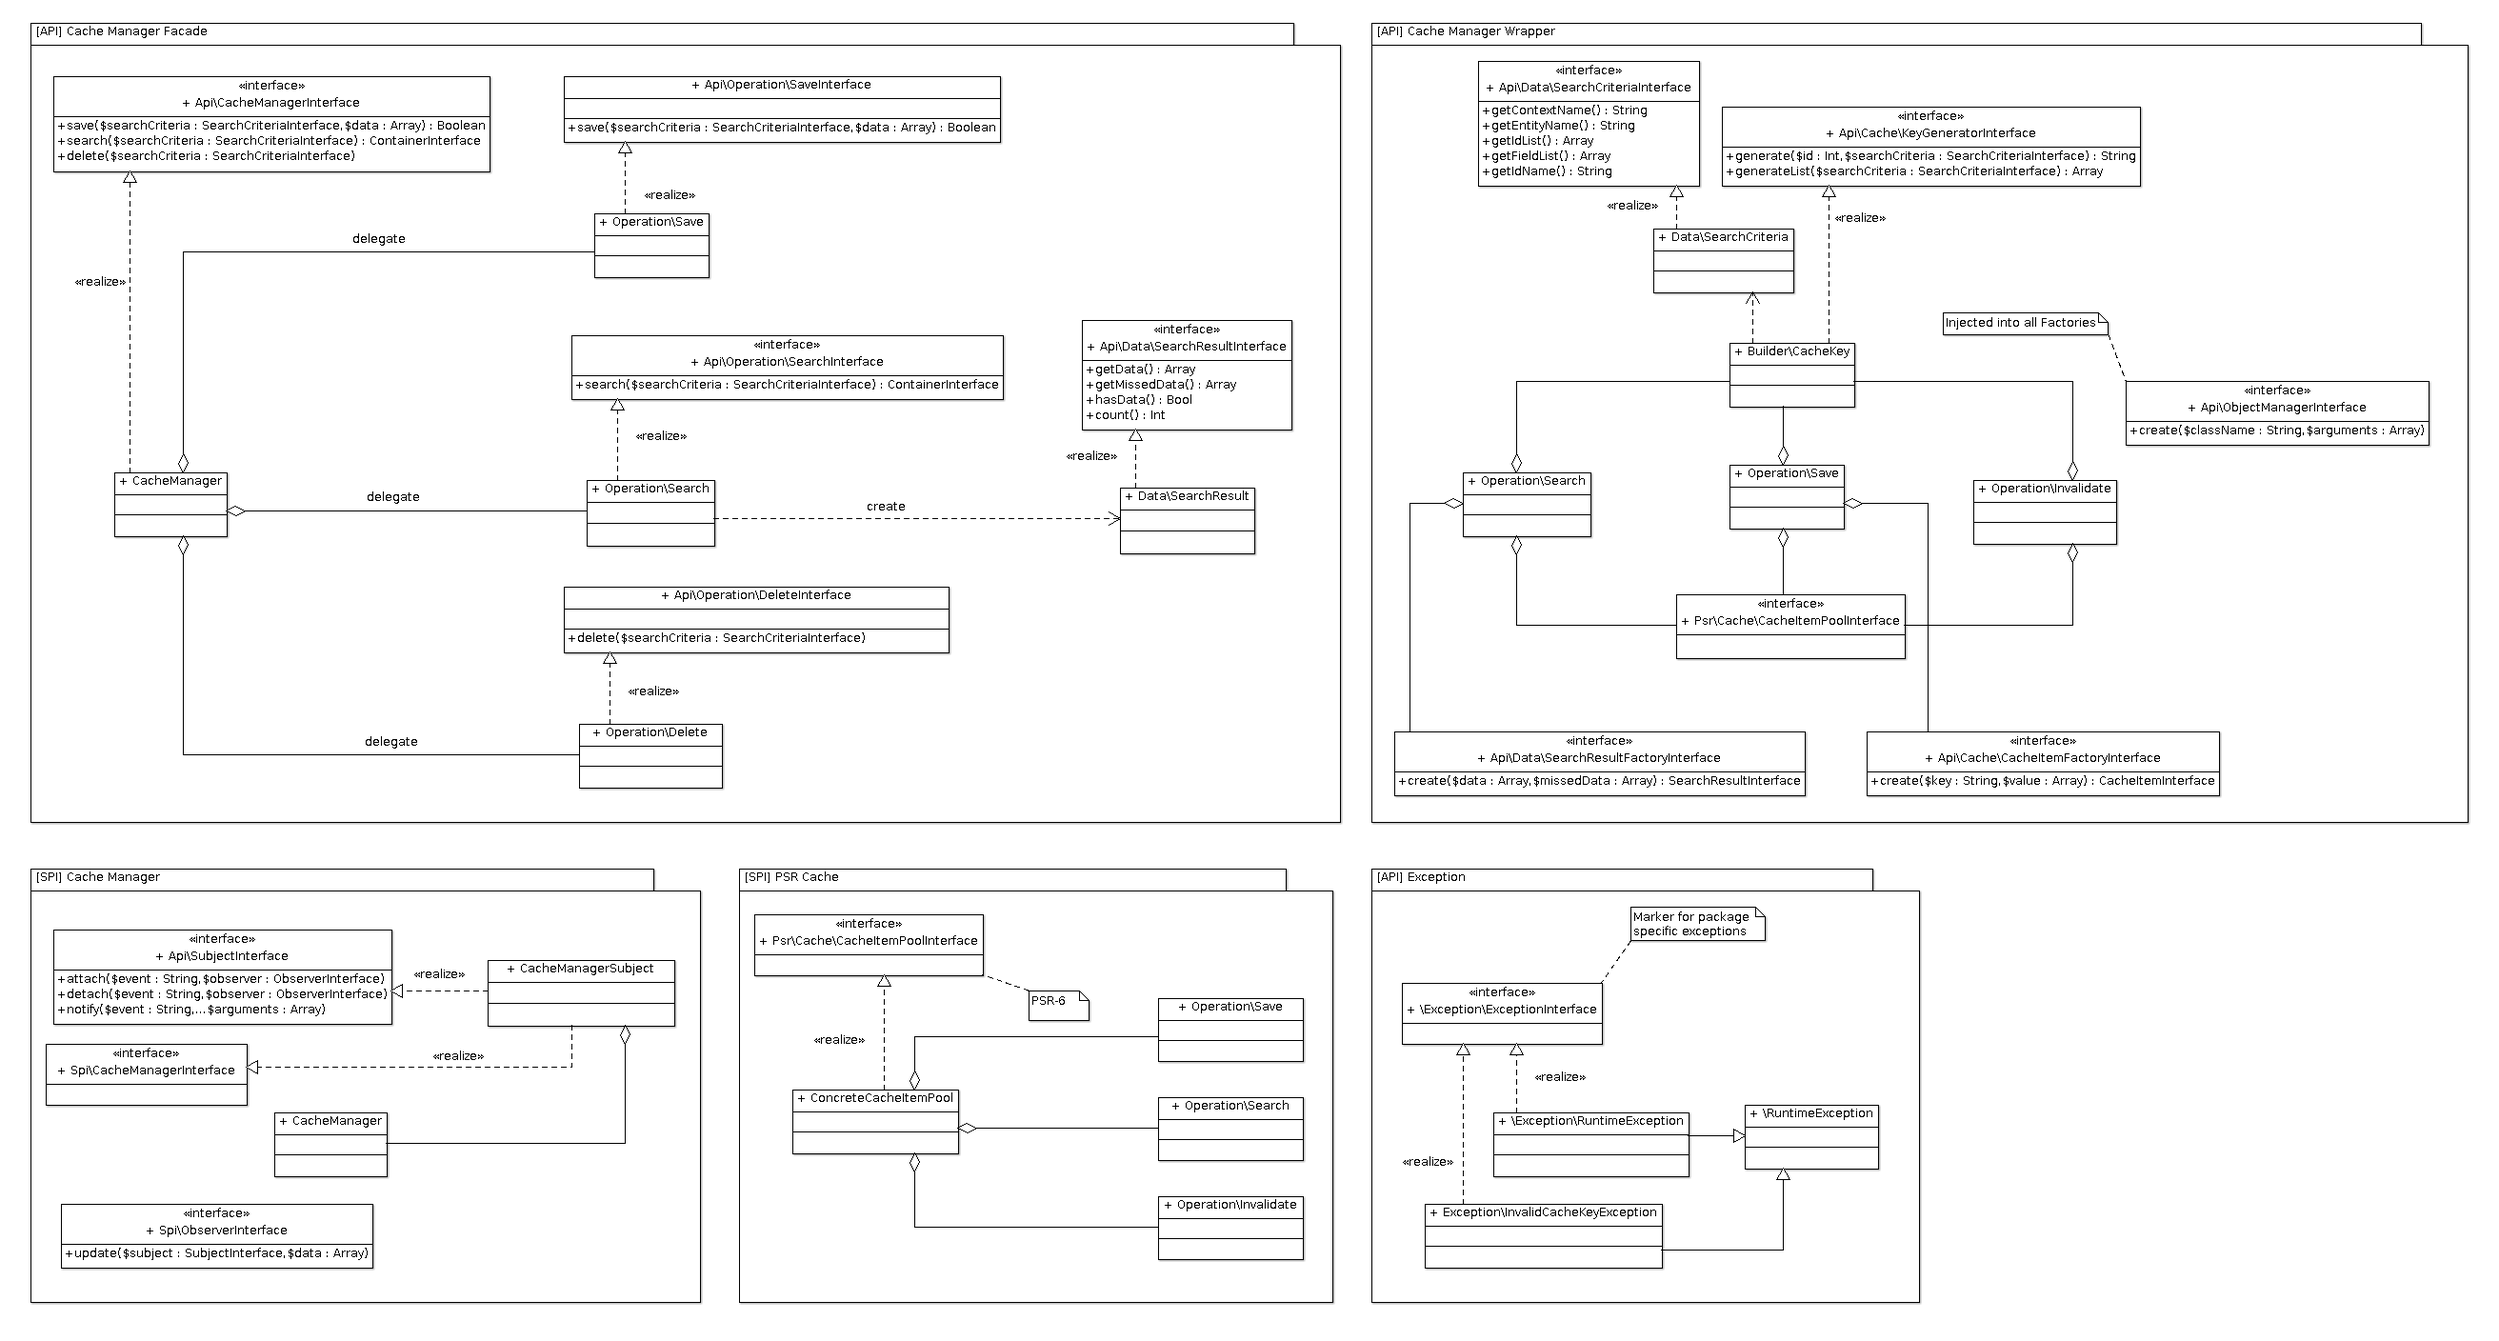
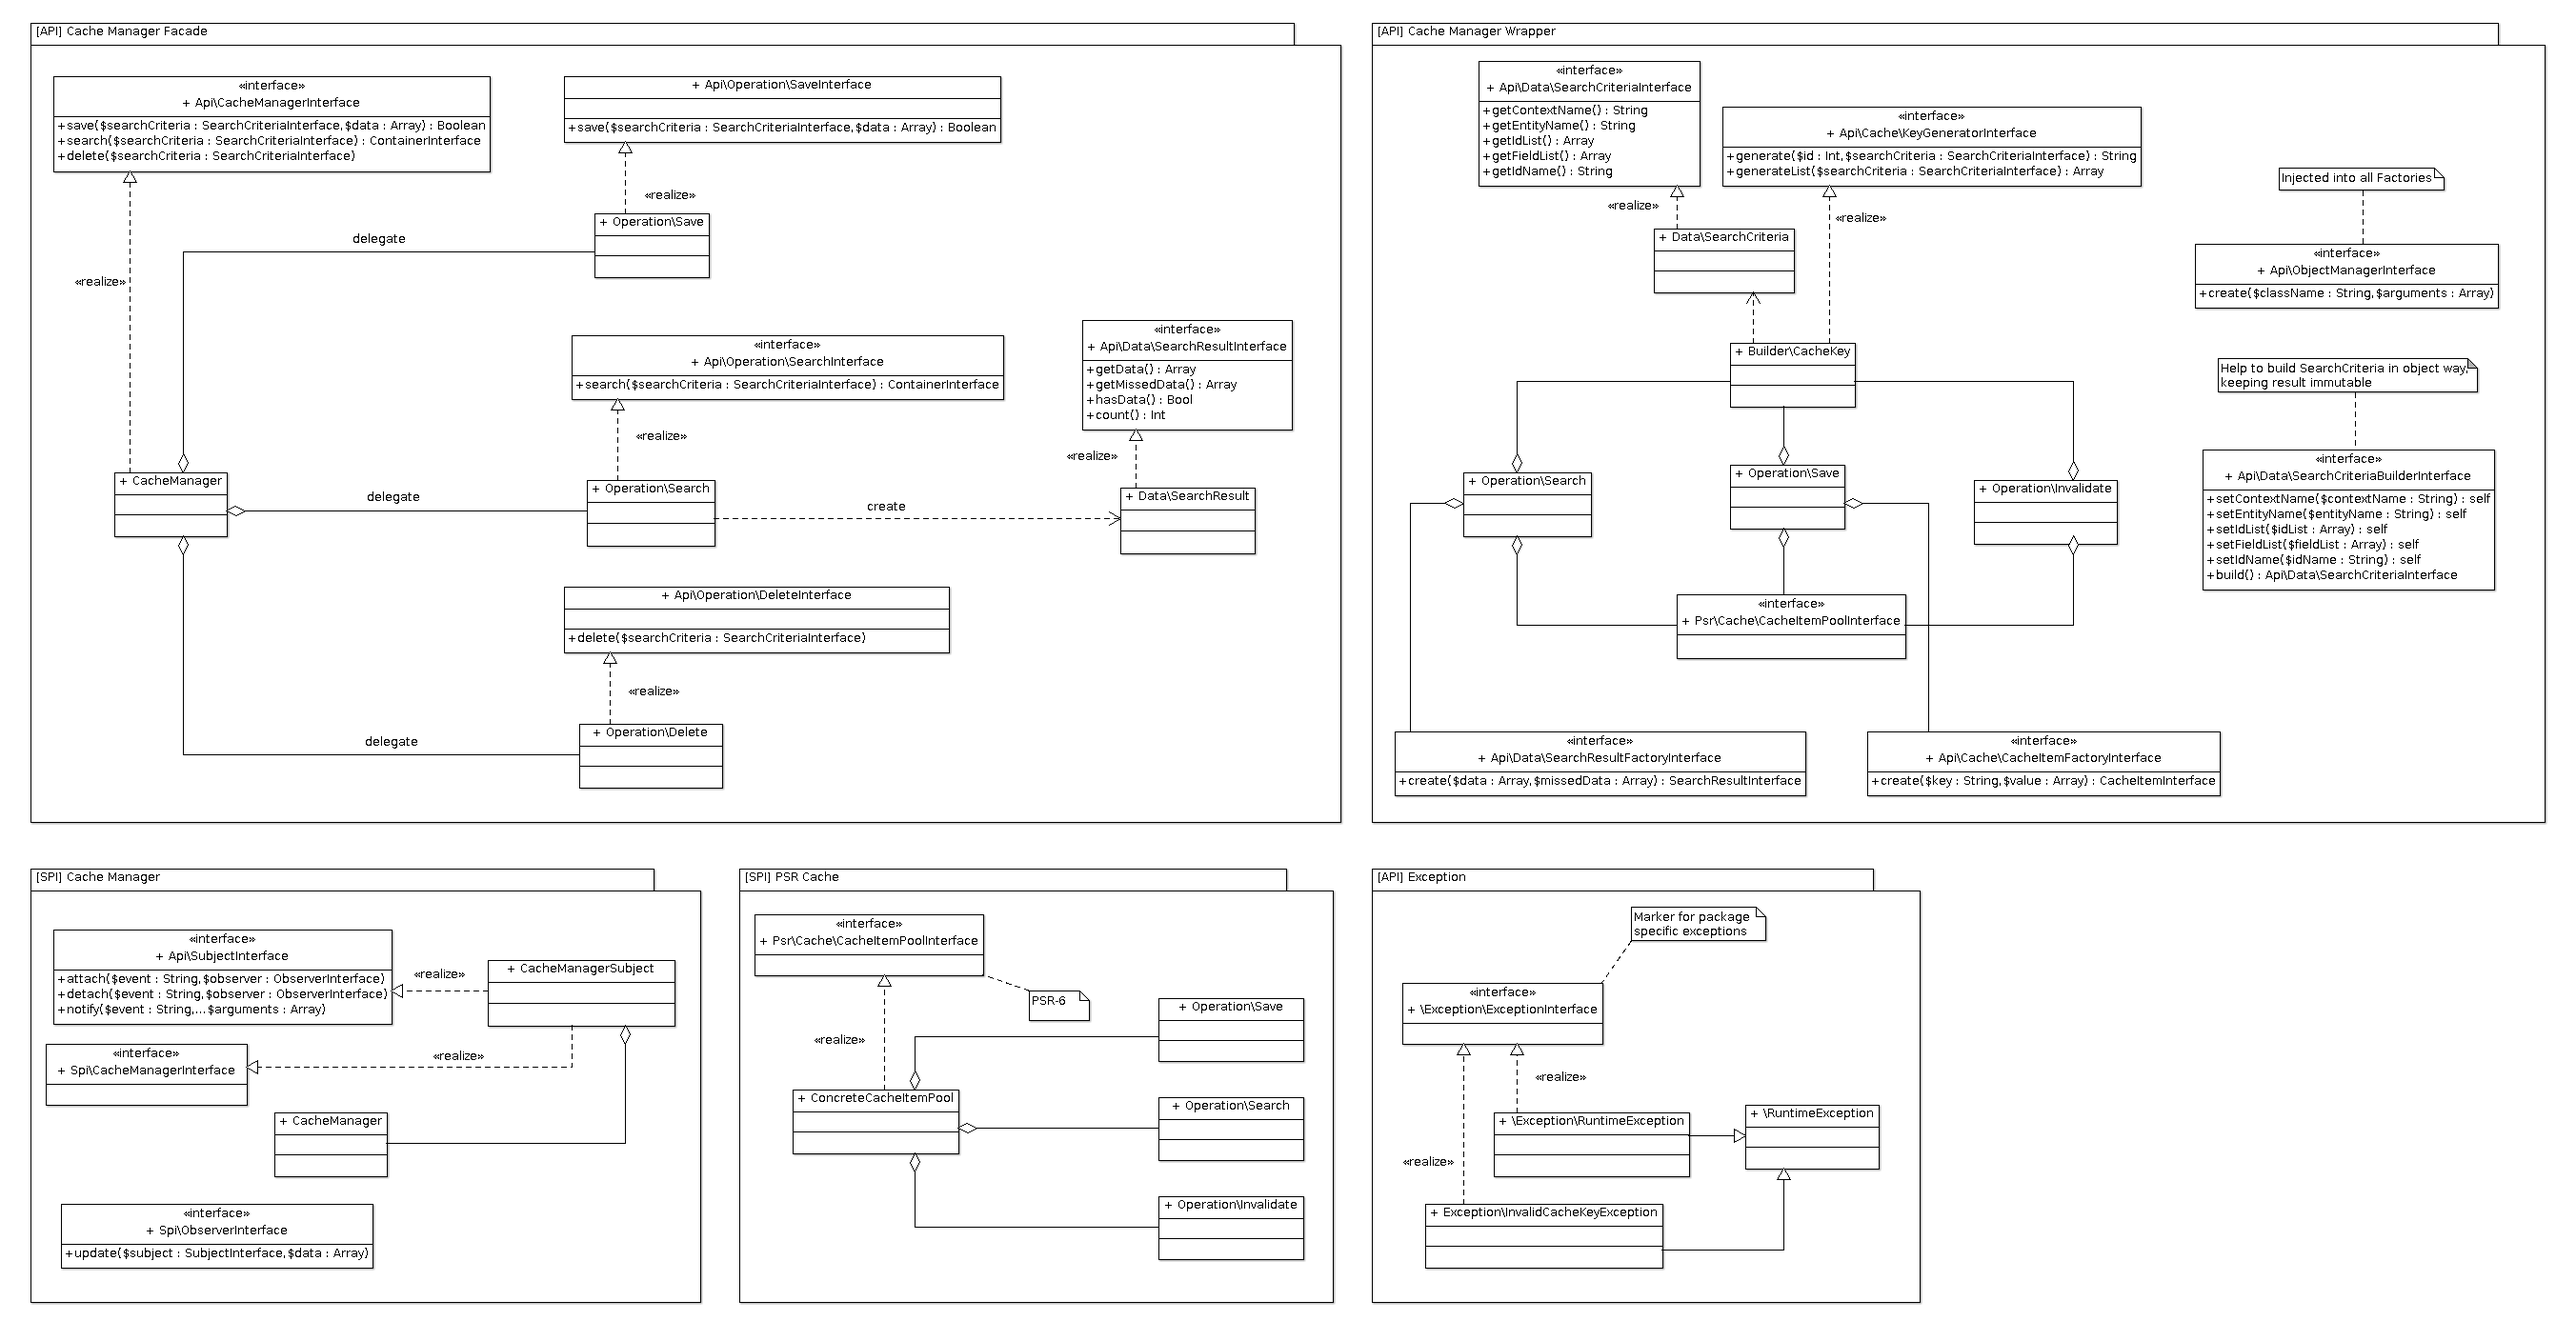
Created Search Criteria Builder

diff --git a/src/Data/SearchCriteriaBuilder.php b/src/Data/SearchCriteriaBuilder.php
@@ -1,0 +1,120 @@
+<?php
+declare(strict_types = 1);
+
+namespace Picamator\CacheManager\Data;
+
+use Picamator\CacheManager\Api\Data\SearchCriteriaBuilderInterface;
+use Picamator\CacheManager\Api\Data\SearchCriteriaInterface;
+use Picamator\CacheManager\Api\ObjectManagerInterface;
+
+/**
+ * Building search criteria object
+ */
+class SearchCriteriaBuilder implements SearchCriteriaBuilderInterface
+{
+    /**
+     * @var ObjectManagerInterface
+     */
+    private $objectManager;
+
+    /**
+     * @var string
+     */
+    private $className;
+
+    /**
+     * @var array
+     */
+    private $data = [
+        'entityName'    => null,
+        'idList'        => [],
+        'fieldList'     => [],
+        'idName'        => null,
+        'contextName'   => null,
+    ];
+
+    /**
+     * @param ObjectManagerInterface    $objectManager
+     * @param string                    $className
+     */
+    public function __construct(
+        ObjectManagerInterface $objectManager,
+        string $className = 'Picamator\CacheManager\Data\SearchResult'
+    ) {
+       $this->objectManager = $objectManager;
+        $this->className = $className;
+    }
+
+    /**
+     * {@inheritdoc}
+     */
+    public function setContextName(string $contextName)
+    {
+        $this->data['contextName'] = $contextName;
+
+        return $this;
+    }
+
+    /**
+     * {@inheritdoc}
+     */
+    public function setEntityName(string $entityName)
+    {
+        $this->data['entityName'] = $entityName;
+
+        return $this;
+    }
+
+    /**
+     * {@inheritdoc}
+     */
+    public function setIdList(array $idList)
+    {
+        $this->data['idList'] = $idList;
+
+        return $this;
+    }
+
+    /**
+     * {@inheritdoc}
+     */
+    public function setFieldList(array $fieldList)
+    {
+        $this->data['fieldList'] = $fieldList;
+
+        return $this;
+    }
+
+    /**
+     * {@inheritdoc}
+     */
+    public function setIdName(string $idName)
+    {
+        $this->data['idName'] = $idName;
+
+        return $this;
+    }
+
+    /**
+     * {@inheritdoc}
+     */
+    public function build() : SearchCriteriaInterface
+    {
+        /** @var SearchCriteriaInterface $result */
+        $result = $this->objectManager->create($this->className, $this->data);
+        $this->cleanData();
+
+        return $result;
+    }
+
+    /**
+     * Clean data
+     */
+    private function cleanData()
+    {
+        foreach ($this->data as &$item) {
+            $item = is_array($item) ? [] : null;
+        }
+        unset($item); // prevent unexpected behaviour
+    }
+}

diff --git a/src/Api/Data/SearchCriteriaBuilderInterface.php b/src/Api/Data/SearchCriteriaBuilderInterface.php
@@ -1,0 +1,65 @@
+<?php
+namespace Picamator\CacheManager\Api\Data;
+
+use Picamator\CacheManager\Api\Data\SearchCriteriaInterface;
+
+/**
+ * Building search criteria object
+ */
+interface SearchCriteriaBuilderInterface
+{
+    /**
+     * Sets context name
+     *
+     * @param string $contextName
+     *
+     * @return self
+     */
+    public function setContextName(string $contextName);
+
+    /**
+     * Sets entity name
+     *
+     * @param string $entityName
+     *
+     * @return self
+     */
+    public function setEntityName(string $entityName);
+
+    /**
+     * Sets id's list
+     *
+     * @param array $idList
+     *
+     * @return self
+     */
+    public function setIdList(array $idList);
+
+    /**
+     * Sets field's list
+     *
+     * @param array $fieldList
+     *
+     * @return self
+     */
+    public function setFieldList(array $fieldList);
+
+    /**
+     * Sets identifier name
+     *
+     * @param string $idName
+     *
+     * @return self
+     */
+    public function setIdName(string $idName);
+
+    /**
+     * Build search criteria
+     *
+     * It SHOULD clear all builder's data after creating SearchCriteria.
+     * It's essential for preparing builder to create new SearchCriteria.
+     *
+     * @return \Picamator\CacheManager\Api\Data\SearchCriteriaInterface
+     */
+    public function build() : SearchCriteriaInterface;
+}

diff --git a/src/Api/ObjectManagerInterface.php b/src/Api/ObjectManagerInterface.php
@@ -5,15 +5,16 @@ use Picamator\CacheManager\Exception\RuntimeException;
 
 /**
  * Creates objects, the main usage inside factories
- * all objects are unshared, for shared objects please use DI service libraries
+ *
+ * All objects are unshared, for shared objects please use DI service libraries
  */
 interface ObjectManagerInterface
 {
     /**
      * Create objects
      *
-     * @param string $className
-     * @param array $arguments
+     * @param string    $className
+     * @param array     $arguments
      *
      * @return mixed
      *

diff --git a/src/ObjectManager.php b/src/ObjectManager.php
@@ -8,7 +8,8 @@ use Picamator\CacheManager\Exception\RuntimeException;
 
 /**
  * Creates objects, the main usage inside factories
- * all objects are unshared, for shared objects please use DI service libraries
+ *
+ * All objects are unshared, for shared objects please use DI service libraries
  */
 class ObjectManager implements ObjectManagerInterface
 {

diff --git a/src/CacheManager.php b/src/CacheManager.php
@@ -13,6 +13,7 @@ use Picamator\CacheManager\Api\Operation\DeleteInterface;
 
 /**
  * Facade over operations: _save_, _search_, and _invalidate_
+ *
  * It's better to use Proxy over operations via DI for performance boost
  */
 class CacheManager implements CacheManagerInterface

diff --git a/src/Api/CacheManagerInterface.php b/src/Api/CacheManagerInterface.php
@@ -7,6 +7,7 @@ use Picamator\CacheManager\Exception\InvalidCacheKeyException;
 
 /**
  * Facade over operations: _save_, _search_, and _invalidate_
+ *
  * It's better to use Proxy over operations via DI for performance boost
  */
 interface CacheManagerInterface 

diff --git a/src/Api/Data/SearchCriteriaInterface.php b/src/Api/Data/SearchCriteriaInterface.php
@@ -7,7 +7,7 @@ namespace Picamator\CacheManager\Api\Data;
 interface SearchCriteriaInterface 
 {
 	/**
-	 * Retrive context name
+	 * Retrieve context name
 	 * 
 	 * @return string
 	 */

diff --git a/src/Cache/CacheItemFactory.php b/src/Cache/CacheItemFactory.php
@@ -1,4 +1,6 @@
 <?php
+declare(strict_types = 1);
+
 namespace Picamator\CacheManager\Cache;
 
 use Picamator\CacheManager\Api\Cache\CacheItemFactoryInterface;

diff --git a/src/Cache/KeyGenerator.php b/src/Cache/KeyGenerator.php
@@ -1,4 +1,6 @@
 <?php
+declare(strict_types = 1);
+
 namespace Picamator\CacheManager\Cache;
 
 use Picamator\CacheManager\Api\Cache\KeyGeneratorInterface;

diff --git a/README.md b/README.md
@@ -115,7 +115,7 @@ use \Picamator\CacheManager\Cache\KeyGenerator;
 use \Picamator\CacheManager\CacheManager;
 use \Picamator\CacheManager\CacheManagerSubject;
 
-use \Picamator\CacheManager\Data\SearchCriteria;
+use \Picamator\CacheManager\Data\SearchCriteriaBuilder;
 
 /** Classes for implementation */
 // Required: use interface \Psr\Cache\CacheItemPoolInterface over your cache library to fit PSR-6
@@ -131,7 +131,7 @@ $cacheItemFactory       = new CacheItemFactory($objectManager);
 $searchResultFactory    = new SearchResultFactory($objectManager);
 
 // Building keys for saving data to cache
-$cacheKeyGenerator = new KeyGenerator();
+$cacheKeyGenerator      = new KeyGenerator();
 
 // In real live please use Proxies or Lazy Loading
 $operationSave          = new Save($cacheKeyGenerator, $cacheItemPoolMock, $cacheItemFactory);
@@ -139,22 +139,23 @@ $operationSearch        = new Search($cacheKeyGenerator, $cacheItemPoolMock, $se
 $operationDelete        = new Delete($cacheKeyGenerator, $cacheItemPoolMock);
 
 // Instantiate main cache manager object
-$cacheManager = new CacheManager($operationSave, $operationSearch, $operationDelete);
+$cacheManager           = new CacheManager($operationSave, $operationSearch, $operationDelete);
 
 // Wrap Cache managed over Observer, it's possible to omit wrapper if application does not need such kind extensibility
-$cacheManagerSubject = new CacheManagerSubject($cacheManager);
+$cacheManagerSubject    = new CacheManagerSubject($cacheManager);
 
 // attach observer to execute after search
 $cacheManagerSubject->attach('afterSearch', $afterSearchMock);
 
 // prepare criteria for search
-$searchCriteria = new SearchCriteria(
-    'customer',     // $entityName
-    [1, 2, 3],      // $idList
-    ['id', 'name'], // $fieldList
-    'id',           // $idName
-    'cloud'         // $contextName
-);
+$searchCriteriaBuilder  = new SearchCriteriaBuilder($objectManager);
+$searchCriteria = $searchCriteriaBuilder
+                    ->setContextName('cloud')
+                    ->setEntityName('customer')
+                    ->setIdList([1, 2, 3])
+                    ->setFieldList(['id', 'name'])
+                    ->setIdName('id')
+                    ->build();
 
 $searchResult = $cacheManagerSubject->search($searchCriteria);
 
